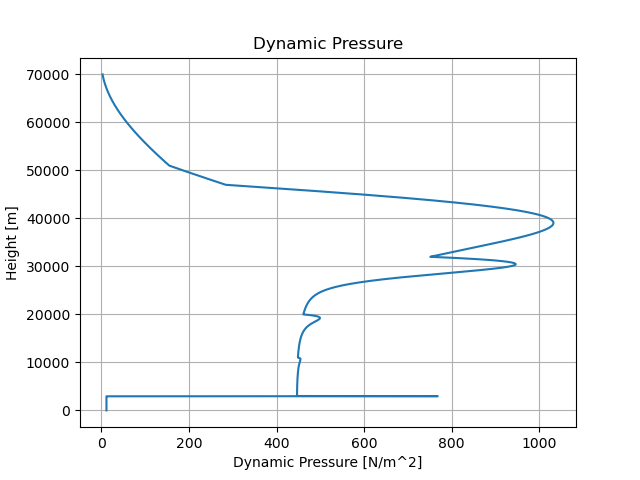
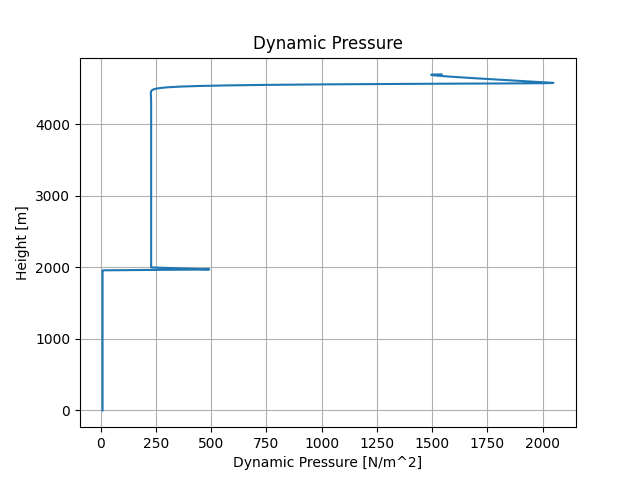
aktuelle Werte

diff --git a/src/IO/Input.py b/src/IO/Input.py
@@ -50,27 +50,27 @@ class Input:
     t = None
     additional_args = {}  # hier kann man hinzufuegen, falls in odeint extra Parameter wie 'col_deriv' gebraucht werden
     rocket_manager = RocketManager()
-    rocket_manager.mass = 90
+    rocket_manager.mass = 70
     chute_manager = ChuteManager()
     chutes = [
 
         Chute(
             name="Chute1",
-            A_max=6.5967,
-            cw=0.3,
-            openingHeight=70000,
-            cutHeight=3000,
-            openingDelay=2,
+            A_max=6,
+            cw=0.5,
+            openingHeight=4700,
+            cutHeight=2000,
+            openingDelay=5,
             openingDuration=0.25),
 
         Chute(
             name="Chute2",
             A_max=25.06,
             cw=3.007,
-            openingHeight=3000,
+            openingHeight=2000,
             cutHeight=-1,
             openingDelay=1,
-            openingDuration=0.25)
+            openingDuration=0.7)
     ]
     drag_manager = None
 
@@ -82,5 +82,5 @@ class Input:
         for c in self.chutes:
             self.chute_manager.addChute(c)
         self.drag_manager = DragManager(self.rocket_manager, self.chute_manager)
-        self.x0 = [0, 70000, 230, 0]  # [pos_x, pos_y, vel_x, vel_y] StartingVector
+        self.x0 = [0, 4700, 60, 0]  # [pos_x, pos_y, vel_x, vel_y] StartingVector
         self.t = np.linspace(0, 1250, 100000)  # TimeVector
